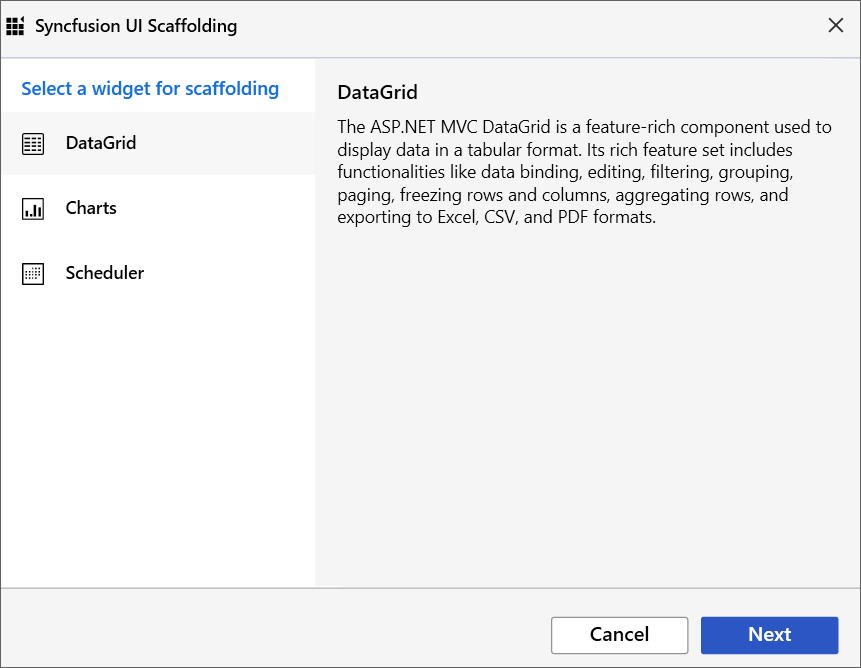
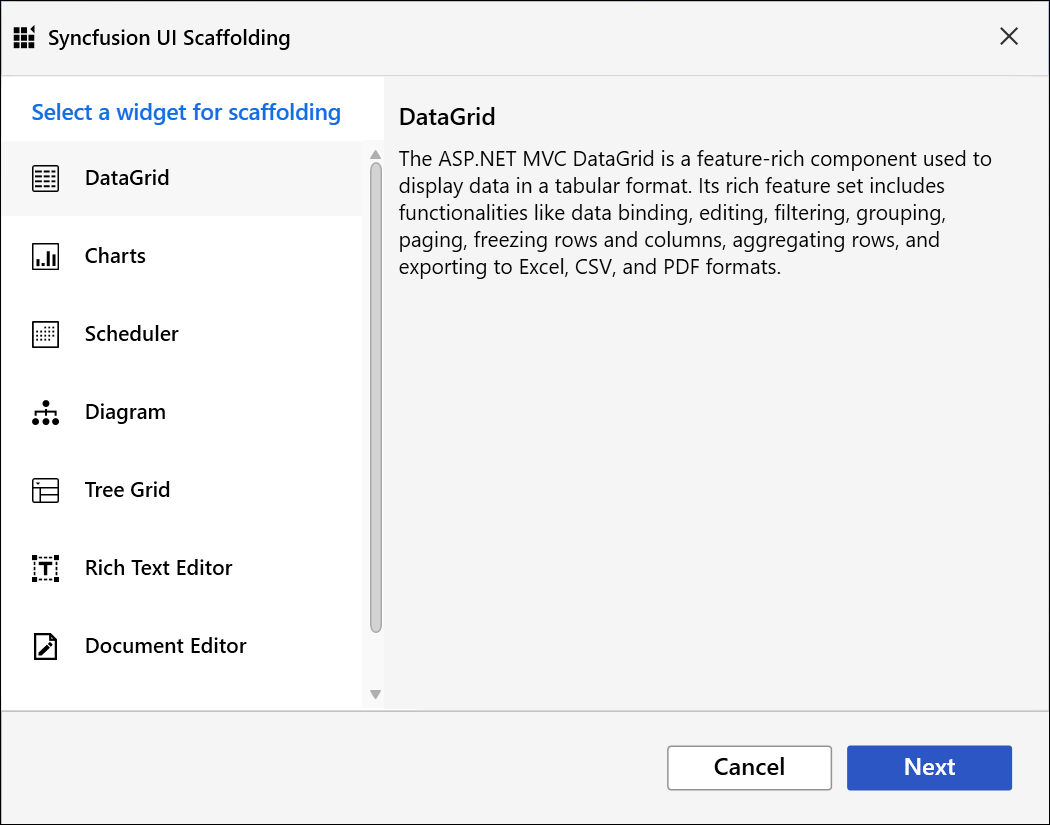
EXT-4189-Scaffolding support additional control information- UG

diff --git a/Extension/ASPNETMVC-EssentialJS2-Extension/Scaffolding.md b/Extension/ASPNETMVC-EssentialJS2-Extension/Scaffolding.md
@@ -9,13 +9,13 @@ documentation: ug
 
 # Scaffolding
 
-Syncfusion provides **Visual Studio Scaffolding** for Syncfusion ASP.NET MVC platform to quickly add code that interacts with data models and reduce the amount of time to develop with data operation in your project. Scaffolding provides an easier way to create Views and Controller action methods for Syncfusion ASP.NET MVC DataGrid, Charts, and Scheduler controls.
+Syncfusion provides **Visual Studio Scaffolding** for Syncfusion ASP.NET MVC platform to quickly add code that interacts with data models and reduce the amount of time to develop with data operation in your project. Scaffolding provides an easier way to create Views and Controller action methods for Syncfusion ASP.NET MVC DataGrid, Charts, Scheduler, Diagram, Tree Grid, Rich Text Editor, Document Editor, and  PDF Viewer controls.
 
 I> The Syncfusion ASP.NET MVC UI Scaffolder is available from v16.4.0.40.
 
-## Add a Scaffolded Item
+## Add a scaffolded item
 
-The following steps explain you how to add a scaffolded item to your ASP.NET MVC Web application.
+The following steps explain how to add a scaffolded item to your ASP.NET MVC Web application:
 
 1. Right-click the **Controllers** folder in the Solution Explorer, click **Add**, and then select **New Scaffolded Item**. 
 
